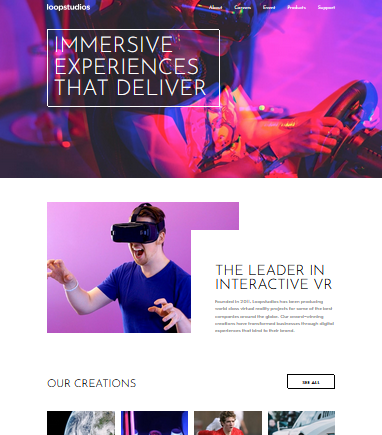
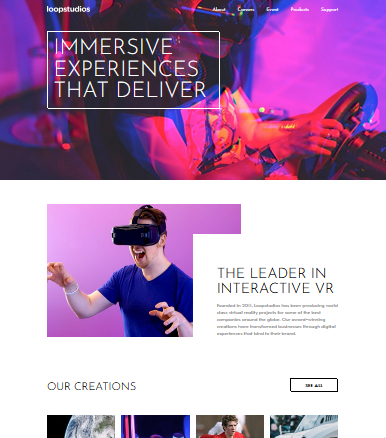
some modifications on footer and navbar + organisation of data

diff --git a/src/components/cards.jsx b/src/components/cards.jsx
@@ -1,6 +1,5 @@
 import { useState } from "react"
-import { dataCards } from "./dataCards"
-
+import { dataCards } from "../data/dataCards";
 
 const Cards = () => {
     // eslint-disable-next-line
@@ -12,7 +11,7 @@ const Cards = () => {
                 <a href={link_project} target={'_blank'} rel="noreferrer">
                     <img src={image_project} className='w-full cursor-pointer rounded-xl hover:scale-125 transition-all duration-700 hover:opacity-30' alt="Projet" />
                 </a>    
-                <div className="absolute table">
+                <div className="absolute">
                     <div className="px-14 py-3 rounded-r-full bg-transparent group-hover:bg-slate-400 duration-700">
                         <a href={link_github} target={'_blank'} rel="noreferrer">
                             <img src={logo_github} className='w-16 opacity-0 group-hover:opacity-100 duration-700' alt="Logo Github" />

diff --git a/src/components/footer.jsx b/src/components/footer.jsx
@@ -6,7 +6,7 @@ import ANCHOR from '../assets/img/top.png';
 const Footer = () => {
     return (
         <div>
-            <div className='py-6 mx-8 md:pl-28 md:pr-28 flex flex-col md:flex-row justify-between'>
+            <div className='py-6 mx-8 lg:pl-28 lg:pr-28 flex flex-col md:flex-row justify-between'>
                 <div className='flex flex-col'>
                     <h2 className="text-[20px] md:text-3xl xl:text-3xl sm:text-2xl text-white text-center md:text-left">Portfolio | Calcagno Loïc</h2>
                     <p className='text-lg text-white text-center my-4 md:text-left md:w-72 lg:w-96'>This portfolio was built with ReactJS and TailwindCSS technologies.</p>

diff --git a/src/components/navbar.jsx b/src/components/navbar.jsx
@@ -8,7 +8,7 @@ const Navbar = () => {
     const [menu, setMenu] = useState(false);
 
     return (
-        <nav className="flex flex-row py-6 pl-5 pr-5 md:pl-28 md:pr-28 justify-between xl:flex-row  bg-dark-blue">
+        <nav className="flex flex-row py-6 pl-5 pr-5 md:pl-28 md:pr-28 justify-between xl:flex-row  bg-dark-blue ">
             <div className='w-full z-20 flex justify-between'>
                 <div className='flex self-center'>
                     <p id='top' className="text-[20px] md:text-3xl xl:text-3xl sm:text-2xl text-white xl:text-left break-words">Portfolio | Calcagno Loïc</p>
